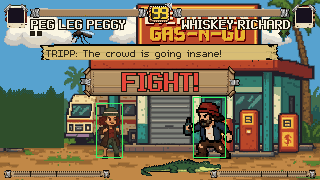
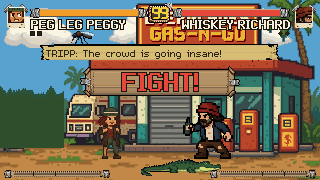
fix(ui): HUD fills and portraits were hidden behind opaque frame art
PM screenshot review of PR #92: every health/meter fill and both portraits
were drawn under frame art whose middle is solid cardboard, so none showed
(the state checks passed; nothing checked draw order).

- Health fill and ghost sit on the cardboard strip between the tape caps
  (98x6 at +10,+2), meter fill 90x4 at +7,+2, both above the frame; bar
  widths are whole pixels; meter ticks follow the new interior
- Portraits show a 16x15 head crop in the taped photo window, above the frame
- hud_test: draw-order checks for fills and photo; pins follow the new
  interiors (45 -> 47)
- Capture tool hides the F1 debug boxes; screenshots re-captured
- Commit the .uid files for hud_test.gd and ui_hud_capture.gd

Claude-Session: https://claude.ai/code/session_01MQNP9q7juxGwGURViUuvSn

diff --git a/docs/UI_SCREENS.md b/docs/UI_SCREENS.md
@@ -160,12 +160,12 @@ banners and callouts clear.
 
 | Element | Position / art | Behavior |
 | --- | --- | --- |
-| Portraits | `hud_portrait_frame.png` 24x24 at (4,4)/(292,4); the 22x22 `hud_portrait_<id>_<state>.png` inside at +1,+1 | normal / **hurt** below 25% health / **ko** after losing the round (an opponent pip that grew while yours didn't; a refill clears it). Missing art = empty frame, no crash. |
-| Health | `hud_health_frame.png` 118x10 at (30,8)/(172,8); code-drawn 116x8 fill, P1 `#f29e26` / P2 `#e5473a`, draining toward the timer | a `#ff6b5a` ghost segment remembers the combo's damage point and drains to match **20 sim frames after the combo clears**; one flash per hit (never strobing); a gentle pulse under 20%. `reduce_flashing` makes the flash a 1-frame tint. |
+| Portraits | `hud_portrait_frame.png` 24x24 at (4,4)/(292,4); a 16x15 crop (x 3, y 1) of the 22x22 `hud_portrait_<id>_<state>.png` in the photo window at +4,+3, drawn ABOVE the opaque frame art | normal / **hurt** below 25% health / **ko** after losing the round (an opponent pip that grew while yours didn't; a refill clears it). Missing art = empty frame, no crash. |
+| Health | `hud_health_frame.png` 118x10 at (30,8)/(172,8); code-drawn 98x6 fill on the cardboard strip between the tape caps (+10,+2), drawn ABOVE the opaque frame art, whole-pixel widths, P1 `#f29e26` / P2 `#e5473a`, draining toward the timer | a `#ff6b5a` ghost segment remembers the combo's damage point and drains to match **20 sim frames after the combo clears**; one flash per hit (never strobing); a gentle pulse under 20%. `reduce_flashing` makes the flash a 1-frame tint. |
 | Names | outlined Marker cream at y 19 (P1 left from x 30, P2 right to x 290) | static per fighter |
 | Round pips | y 31 from each bar's outer end; P1 `hud_pip_square_*`, P2 `hud_pip_diamond_*` | grow with double-KO pips. **No win-type letters: MatchRoot keeps no per-round win history** (TODO: the K/T/M/D pip art is approved and waits on a sim-side decision). |
 | Timer | `hud_timer_box.png` at (148,3); two 8x12 cells from `hud_timer_digits.png` (0-9, cell 10 = infinity), centered | under 10 s the box tints dirty yellow and the digits tick one shade per 15 sim frames |
-| Meter | `hud_meter_frame.png` 106x8 at (4,170)/(210,170); 104x6 fill `#5ac8ff`, tick marks at 25 and 50 | at full the fill turns `#ff3d9a`, "METH READY" in outlined Marker pink sits beside the bar (P1 edge x 114, P2 edge x 206) and the 8x8 skull frames alternate every **15 sim frames** |
+| Meter | `hud_meter_frame.png` 106x8 at (4,170)/(210,170); 90x4 fill `#5ac8ff` between the tape caps (+7,+2) above the frame art, tick marks at 25 and 50 | at full the fill turns `#ff3d9a`, "METH READY" in outlined Marker pink sits beside the bar (P1 edge x 114, P2 edge x 206) and the 8x8 skull frames alternate every **15 sim frames** |
 | Banners | 160x32 `hud_banner_plate.png` centered (y 74) with the word sprite: round_1-5, decisive, fight, ko, time, double_ko, methtality | stamp in over **6 sim frames** from 8 px above in integer steps; spriteless messages (TAKES THE ROUND, WINS THE MATCH, DRAW, SUDDEN DEATH, ROUND 6+) render in outlined Marker cream on the plate. FIGHT auto-removes after 30 sim frames, METH after 120; round/KO banners persist until replaced (today's timing). |
 | Callouts | outlined Marker cream on the attacker's side at y 80 | COUNTER HIT / TECH, one at a time, **30 sim frames** each |
 | Combo counter | today's position (attacker's side, y 64), "<n> HITS" in outlined Marker `#f2d13a` | combo damage under it in m5x7 cream only while `gameplay.show_combo_damage` is on (reads `combo_tracker.total_damage`) |
@@ -377,7 +377,7 @@ on an approved file missing from the table, and exits non-zero.
   up; the 30-frame Results guard; REMATCH routes through the VS bumper
   and keeps fighters and stage; CHARACTER SELECT / STAGE SELECT /
   MAIN MENU all route correctly and unpause.
-- `game/tests/hud_test.gd` — 45 checks (UI Phase 2, against a scratch
+- `game/tests/hud_test.gd` — 47 checks (UI Phase 2, against a scratch
   settings.cfg): portrait states; health and the 20-frame ghost drain;
   the HUD tick frozen while paused; pip sprites; timer digit cells and
   the under-10 tint; meter width, the METH-pink full state and the

diff --git a/docs/PM_BRIEF.md b/docs/PM_BRIEF.md
@@ -13,7 +13,7 @@
 > HUD timers moved onto a presentation-only per-sim-tick hook (frozen
 > by pause and hitstop, resyncing on restore), and five stored settings
 > consumed (commentary, show_combo_damage, reduce_flashing,
-> high_contrast_hud, hide_tripp_text). New suite hud_test 45 checks;
+> high_contrast_hud, hide_tripp_text). New suite hud_test 47 checks;
 > ui_typography grew to 42 (HUD label coverage), round_flow to 35
 > (decisive/FIGHT banner pins). Win-type pip letters stay out —
 > MatchRoot keeps no per-round win history (KNOWN_ISSUES). (Earlier on
@@ -132,7 +132,7 @@ Counts are PASS+FAIL lines observed in real headless runs, not doc claims.
 | `ui_typography_test.gd` | Phase 1 + PR A/B/C typography and contrast rules: every label in the eleven surfaces uses a pixel font at native size with every glyph present, no outline/shadow, integer positions, no scaling; cardboard labels fit their container and use the dark inks; no two labels overlap (ink extents) and labels over cards stay inside; the HUD labels pass the same rules at round start and mid-fight | **42**, 0 fail | yes — added 2026-11-21, extended 2026-11-22 (review fixes, select screens, match wrap, HUD) |
 | `select_screens_test.gd` | PR A select reskins: Mode/Difficulty choices unchanged (names, order, defaults, emits, back paths), difficulty tallies, rap-sheet photo + wall copy, per-player scribble cursors, ticket focus lift, the 18-frame RANDOM scratch-off and its hand-off | **24**, 0 fail | yes — added 2026-11-22 (PR A) |
 | `results_flow_test.gd` | PR B match wrap: the VS slide-in (12 integer steps), 20-frame skip guard, 150-frame duration and hand-off; Results appears at match end above the frozen match with the real winner/stats; serialize() identical while Results is up; the 30-frame Results guard; every Results option routes (REMATCH keeps fighters and stage through the VS bumper) | **20**, 0 fail | yes — added 2026-11-22 (PR B) |
-| `hud_test.gd` | UI Phase 2 HUD: portrait states, health and the 20-frame ghost drain, the sim-tick freeze under pause, pip sprites, timer digit cells and the under-10 tint, meter full/READY with the skull alternation, banner sprites with the text fallback and timing, attacker-side callouts, the gated combo damage, commentary modes, reduce_flashing and high_contrast, the serialize/load resync, and serialize() identical with the HUD bound and unbound | **45**, 0 fail | yes — added 2026-11-22 (UI Phase 2) |
+| `hud_test.gd` | UI Phase 2 HUD: portrait states, health and the 20-frame ghost drain, the sim-tick freeze under pause, pip sprites, timer digit cells and the under-10 tint, meter full/READY with the skull alternation, banner sprites with the text fallback and timing, attacker-side callouts, the gated combo damage, commentary modes, reduce_flashing and high_contrast, the serialize/load resync,, serialize() identical with the HUD bound and unbound, and fills/photo drawn above their opaque frame art | **47**, 0 fail | yes — added 2026-11-22 (UI Phase 2) |
 | `air_probe.gd` | Balance metrics only, asserts nothing, always exits 0 | 0 (metrics) | yes (separate job) |
 | `juggle_probe.gd` | Juggle balance metrics (every budget-legal launcher route, jab-only reference, candidate ladders), asserts nothing | 0 (metrics) | no |
 | `juggle_route_probe.gd` | Real-hitbox juggle route timing search (human timing; ~7 min) | 0 (metrics) | no |
@@ -308,7 +308,7 @@ Release blockers / decisions pending:
   SELECT / MAIN MENU; pinned by `results_flow_test` (20). **Phase 2
   (HUD) — SHIPPED on this branch (2026-11-22):** the full street-junk
   HUD reskin on the sim tick with five settings consumed, pinned by
-  `hud_test` (45). Controls/extras (Phase 4) follow the plan in
+  `hud_test` (47). Controls/extras (Phase 4) follow the plan in
   `docs/UI_HUD_SCREENS_PLAN.md`.
 
 - **Combo system** (design home: `docs/COMBO_SYSTEM_DESIGN.md`, merged

diff --git a/README.md b/README.md
@@ -121,7 +121,7 @@ Current suites: **combat 408 checks**, round flow 35, character select 55,
 locomotion speed 7, stage select 94, stage floor 9, CPU opponent 41,
 combo system 68, combo fuzz 118, stun & breaker 55, The Clip 23,
 serialization 24, B6
-landing-whiff 5, UI flow 53, settings 16, UI assets 4, UI typography 42, select screens 24, results flow 20, match HUD 45
+landing-whiff 5, UI flow 53, settings 16, UI assets 4, UI typography 42, select screens 24, results flow 20, match HUD 47
 — all green in CI (`tests.yml`, every step under a `timeout-minutes`).
 `tests/air_probe.gd` and `tests/juggle_probe.gd` print balance metrics and
 assert nothing; `tests/juggle_route_probe.gd` brute-forces real-hitbox juggle

diff --git a/docs/KNOWN_ISSUES.md b/docs/KNOWN_ISSUES.md
@@ -605,7 +605,7 @@ landed 2026-11-21 — data recorded, no balance fixes applied yet):**
   up; the 30-frame Results input guard; REMATCH routes through the VS
   bumper and keeps fighters and stage; CHARACTER SELECT / STAGE SELECT /
   MAIN MENU all route correctly and unpause.
-- `game/tests/hud_test.gd` — **45 checks** (UI Phase 2, 2026-11-22; runs
+- `game/tests/hud_test.gd` — **47 checks** (UI Phase 2, 2026-11-22; runs
   against a scratch settings.cfg): portrait states (normal, hurt under
   25%, ko after the round, refill restores); health fills and the
   20-sim-frame combo ghost drain; the HUD tick frozen while paused; pip
